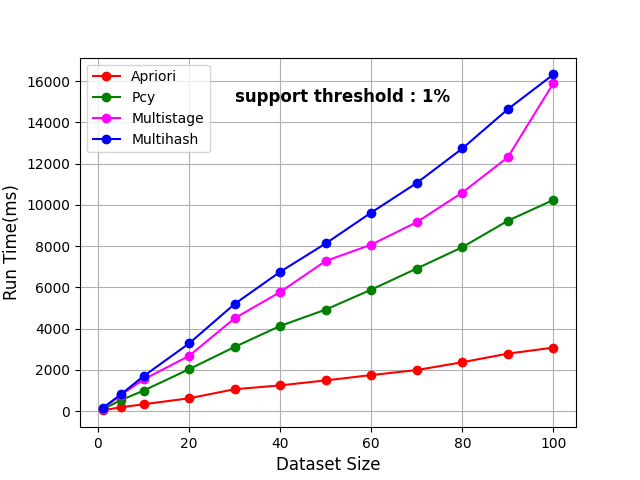
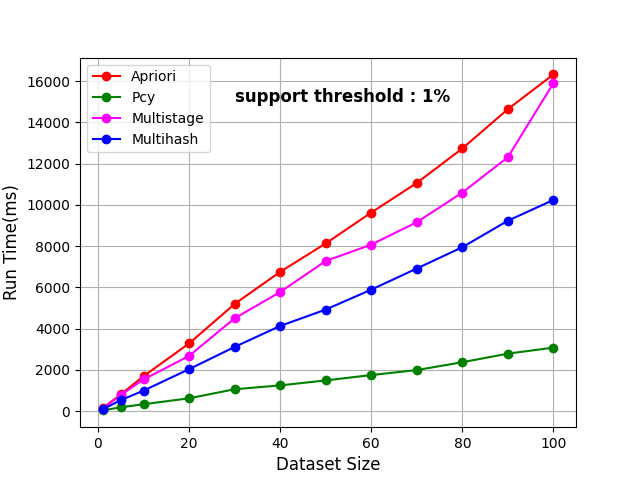
results

diff --git a/graph_results.py b/graph_results.py
@@ -4,12 +4,11 @@ import matplotlib.pyplot as plt
 from apriori import Apriori
 Dataset =  [1, 5, 10, 20, 30, 40, 50, 60, 70, 80, 90, 100]
 threshold = [1,5,10]
-ap = []
 
-AprioriTime1 =  [32.0, 182.0, 331.0, 619.02, 1057.98, 1244.95, 1487.04, 1745.96, 1988.99, 2369.01, 2785.31, 3078.2]
-PcyTime1 = [77.0, 529.99, 991.0, 2031.05, 3110.96, 4128.0, 4923.03, 5890.0, 6914.62, 7949.18, 9233.0, 10242.01]
+PcyTime1 =  [32.0, 182.0, 331.0, 619.02, 1057.98, 1244.95, 1487.04, 1745.96, 1988.99, 2369.01, 2785.31, 3078.2]
+MultihashTime1 = [77.0, 529.99, 991.0, 2031.05, 3110.96, 4128.0, 4923.03, 5890.0, 6914.62, 7949.18, 9233.0, 10242.01]
 MultistageTime1 = [111.97, 777.04, 1533.01, 2674.96, 4500.03, 5773.0, 7280.01, 8072.0, 9162.99, 10599.0, 12313.9, 15909.64]
-MultihashTime1 = [139.04, 805.0, 1692.0, 3279.0, 5195.0, 6754.34, 8130.04, 9628.58, 11066.0, 12737.02, 14645.52, 16330.09]
+AprioriTime1 = [139.04, 805.0, 1692.0, 3279.0, 5195.0, 6754.34, 8130.04, 9628.58, 11066.0, 12737.02, 14645.52, 16330.09]
 
 plt.plot(Dataset, AprioriTime1, color="red", label="Apriori" ,marker="o")
 plt.plot(Dataset, PcyTime1, color="green", label="Pcy", marker="o")
@@ -28,10 +27,10 @@ PcyTime5 = [70.0, 420.0, 772.01, 1425.96, 2229.12, 2923.0, 3819.0, 4709.99, 5527
 MultistageTime5 = [63.0, 396.04, 931.97, 2039.02, 2892.0, 4231.05, 5177.0, 5825.04, 6533.02, 7462.97, 8496.05, 9560.97]
 MultihashTime5 = [93.96, 627.44, 1332.99, 2581.1, 4181.04, 5607.21, 7263.0, 8813.03, 9995.03, 11590.92, 13306.79, 15044.12]
 
-plt.plot(Dataset, AprioriTime1, color="red", label="Apriori" ,marker="o")
-plt.plot(Dataset, PcyTime1, color="green", label="Pcy", marker="o")
-plt.plot(Dataset, MultistageTime1, color="magenta",label="Multistage", marker="o")
-plt.plot(Dataset, MultihashTime1, color="blue",label="Multihash", marker="o")
+plt.plot(Dataset, AprioriTime5, color="red", label="Apriori" ,marker="o")
+plt.plot(Dataset, PcyTime5, color="green", label="Pcy", marker="o")
+plt.plot(Dataset, MultistageTime5, color="magenta",label="Multistage", marker="o")
+plt.plot(Dataset, MultihashTime5, color="blue",label="Multihash", marker="o")
 
 plt.xlabel('Dataset Size', fontsize=14)
 plt.ylabel('Run Time(ms)', fontsize=14)
@@ -46,10 +45,10 @@ PcyTime10 = [54.99, 353.0, 771.96, 1488.96, 2518.01, 2950.97, 3698.01, 4372.96, 
 MultistageTime10 = [83.99, 392.0, 907.0, 1852.97, 2659.04, 3283.01, 4211.04, 5492.96, 6076.0, 7047.99, 7670.99, 9074.96]
 MultihashTime10 = [100.0, 678.0, 1523.52, 2865.63, 4599.99, 6152.0, 7546.01, 9071.72, 10266.03, 12592.03, 14303.03, 15548.01]
 
-plt.plot(Dataset, AprioriTime1, color="red", label="Apriori" ,marker="o")
-plt.plot(Dataset, PcyTime1, color="green", label="Pcy", marker="o")
-plt.plot(Dataset, MultistageTime1, color="magenta",label="Multistage", marker="o")
-plt.plot(Dataset, MultihashTime1, color="blue",label="Multihash", marker="o")
+plt.plot(Dataset, AprioriTime10, color="red", label="Apriori" ,marker="o")
+plt.plot(Dataset, PcyTime10, color="green", label="Pcy", marker="o")
+plt.plot(Dataset, MultistageTime10, color="magenta",label="Multistage", marker="o")
+plt.plot(Dataset, MultihashTime10, color="blue",label="Multihash", marker="o")
 
 plt.xlabel('Dataset Size', fontsize=14)
 plt.ylabel('Run Time(ms)', fontsize=14)

diff --git a/pcy.py b/pcy.py
@@ -4,7 +4,7 @@ from textwrap import indent
 
 
 class Pcy:
-    def __init__(self, inputFile, dataChunk, support) :
+    def __init__(self, inputFile, dataChunk=40, support=1) :
         self.inputFile = inputFile
         self.dataChunk = dataChunk
         self.support = support
